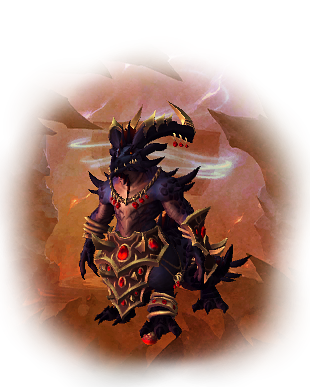
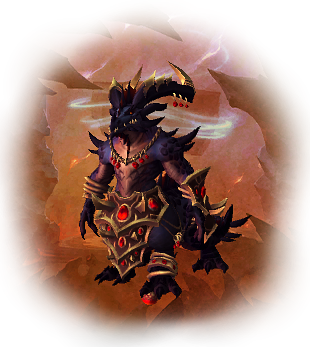
fix name

diff --git a/guides/guides.css b/guides/guides.css
@@ -45,7 +45,7 @@ h2 {
     top: 0px;
     left: 0px;
     background-size: cover;
-    background-position: 50% 50%;
+    background-position: 0 60%;
     z-index: 1;
 }
 .bossName {
@@ -60,6 +60,8 @@ h2 {
     line-height: 92%;
     text-shadow: 0 2px 2px rgb(0 0 0 / 80%);
     letter-spacing: 0.05em;
+    width: 100%;
+    text-align: center;
 }
 .fixBg {
     position: fixed !important;
